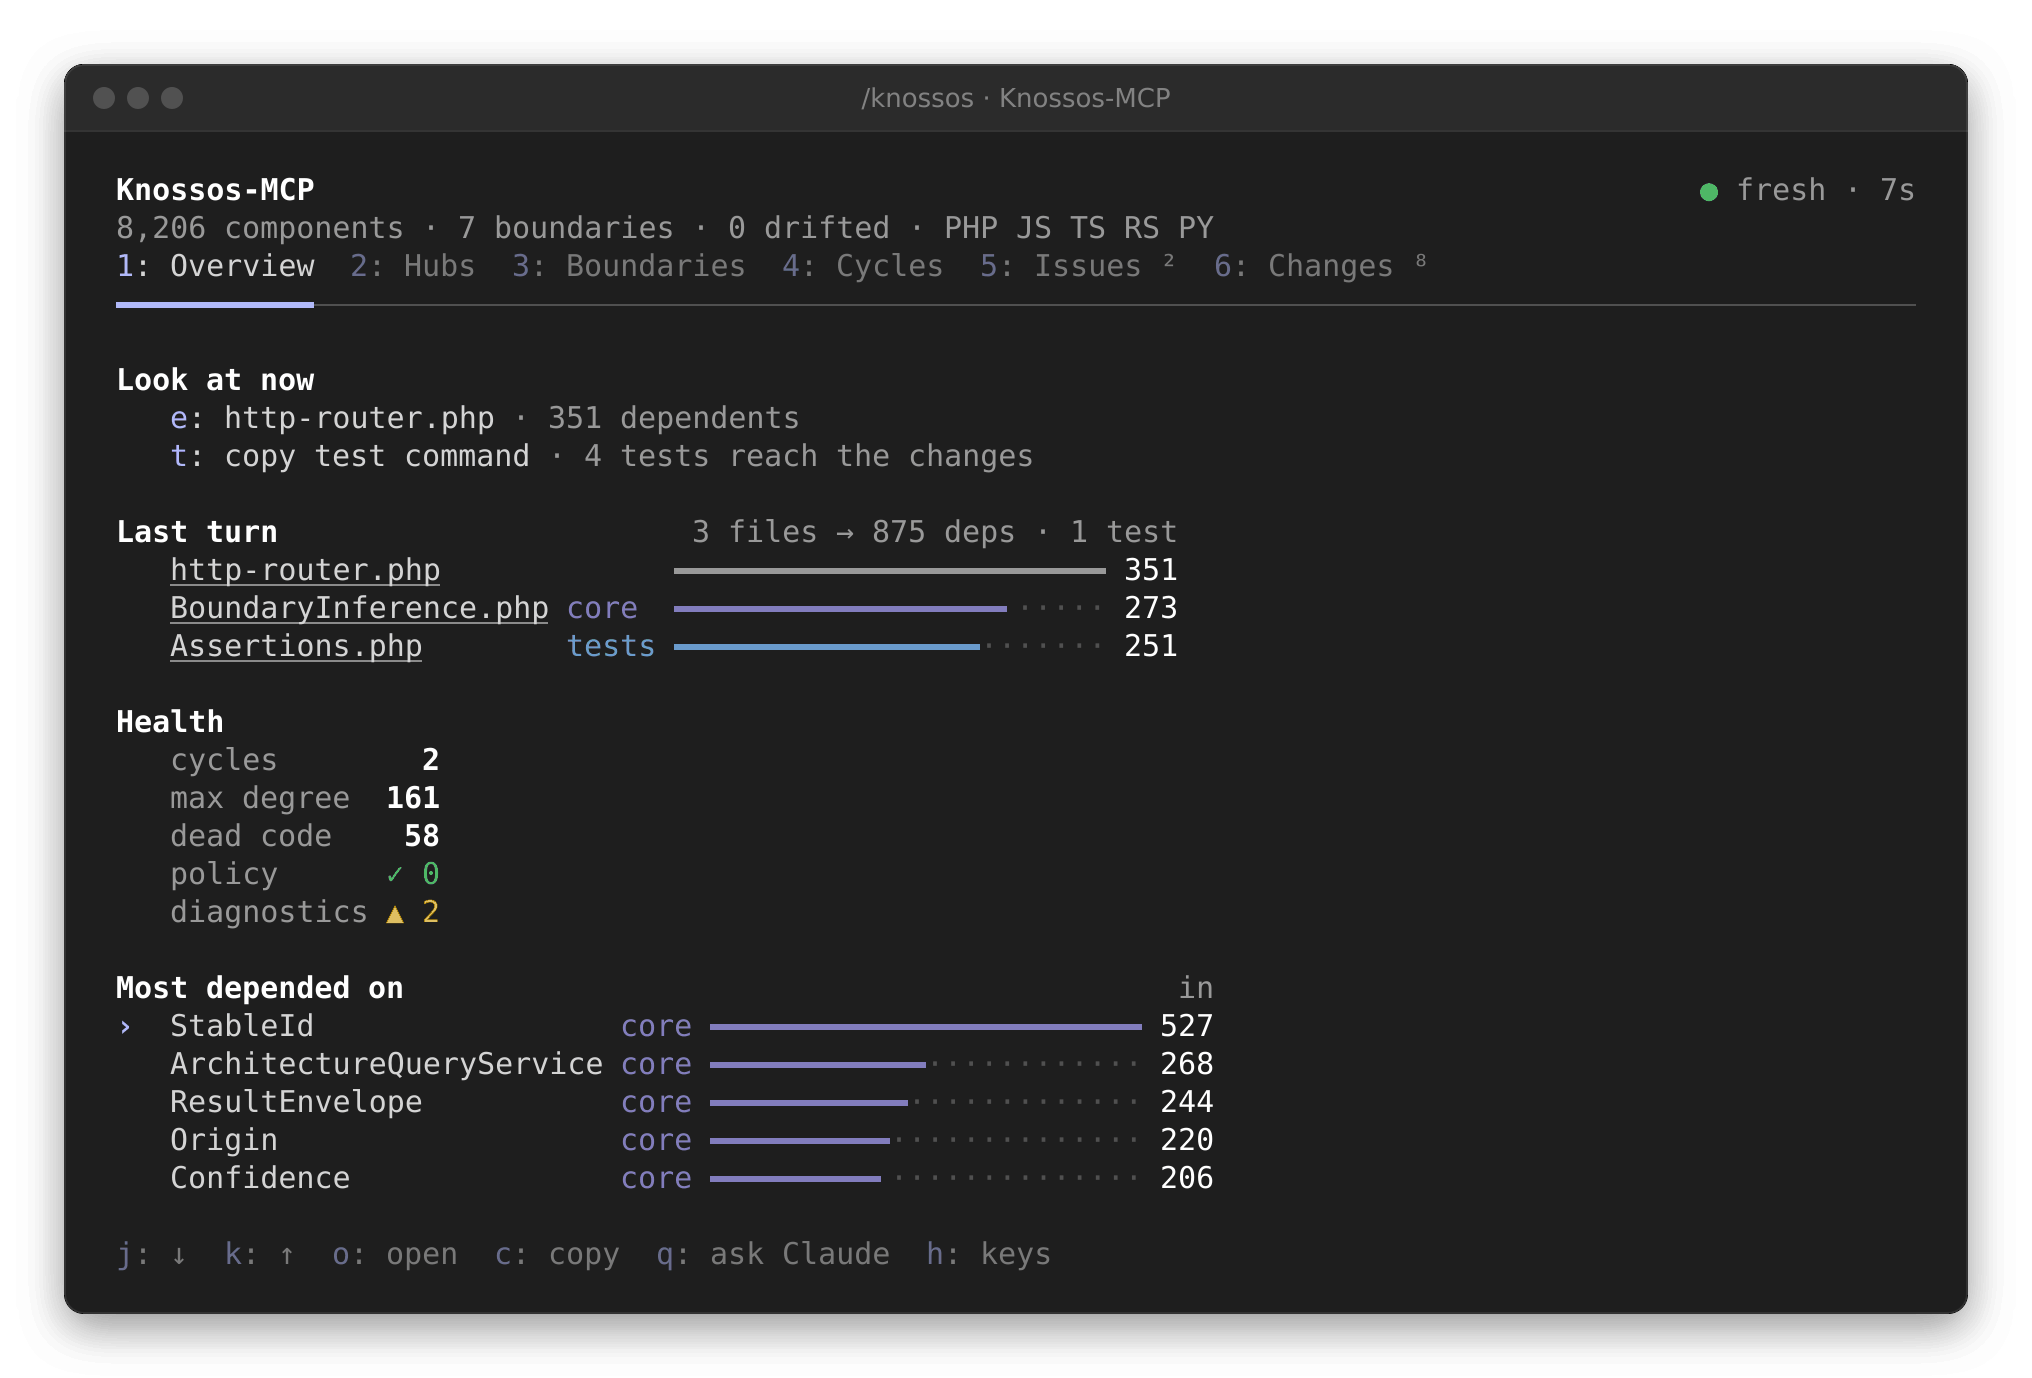
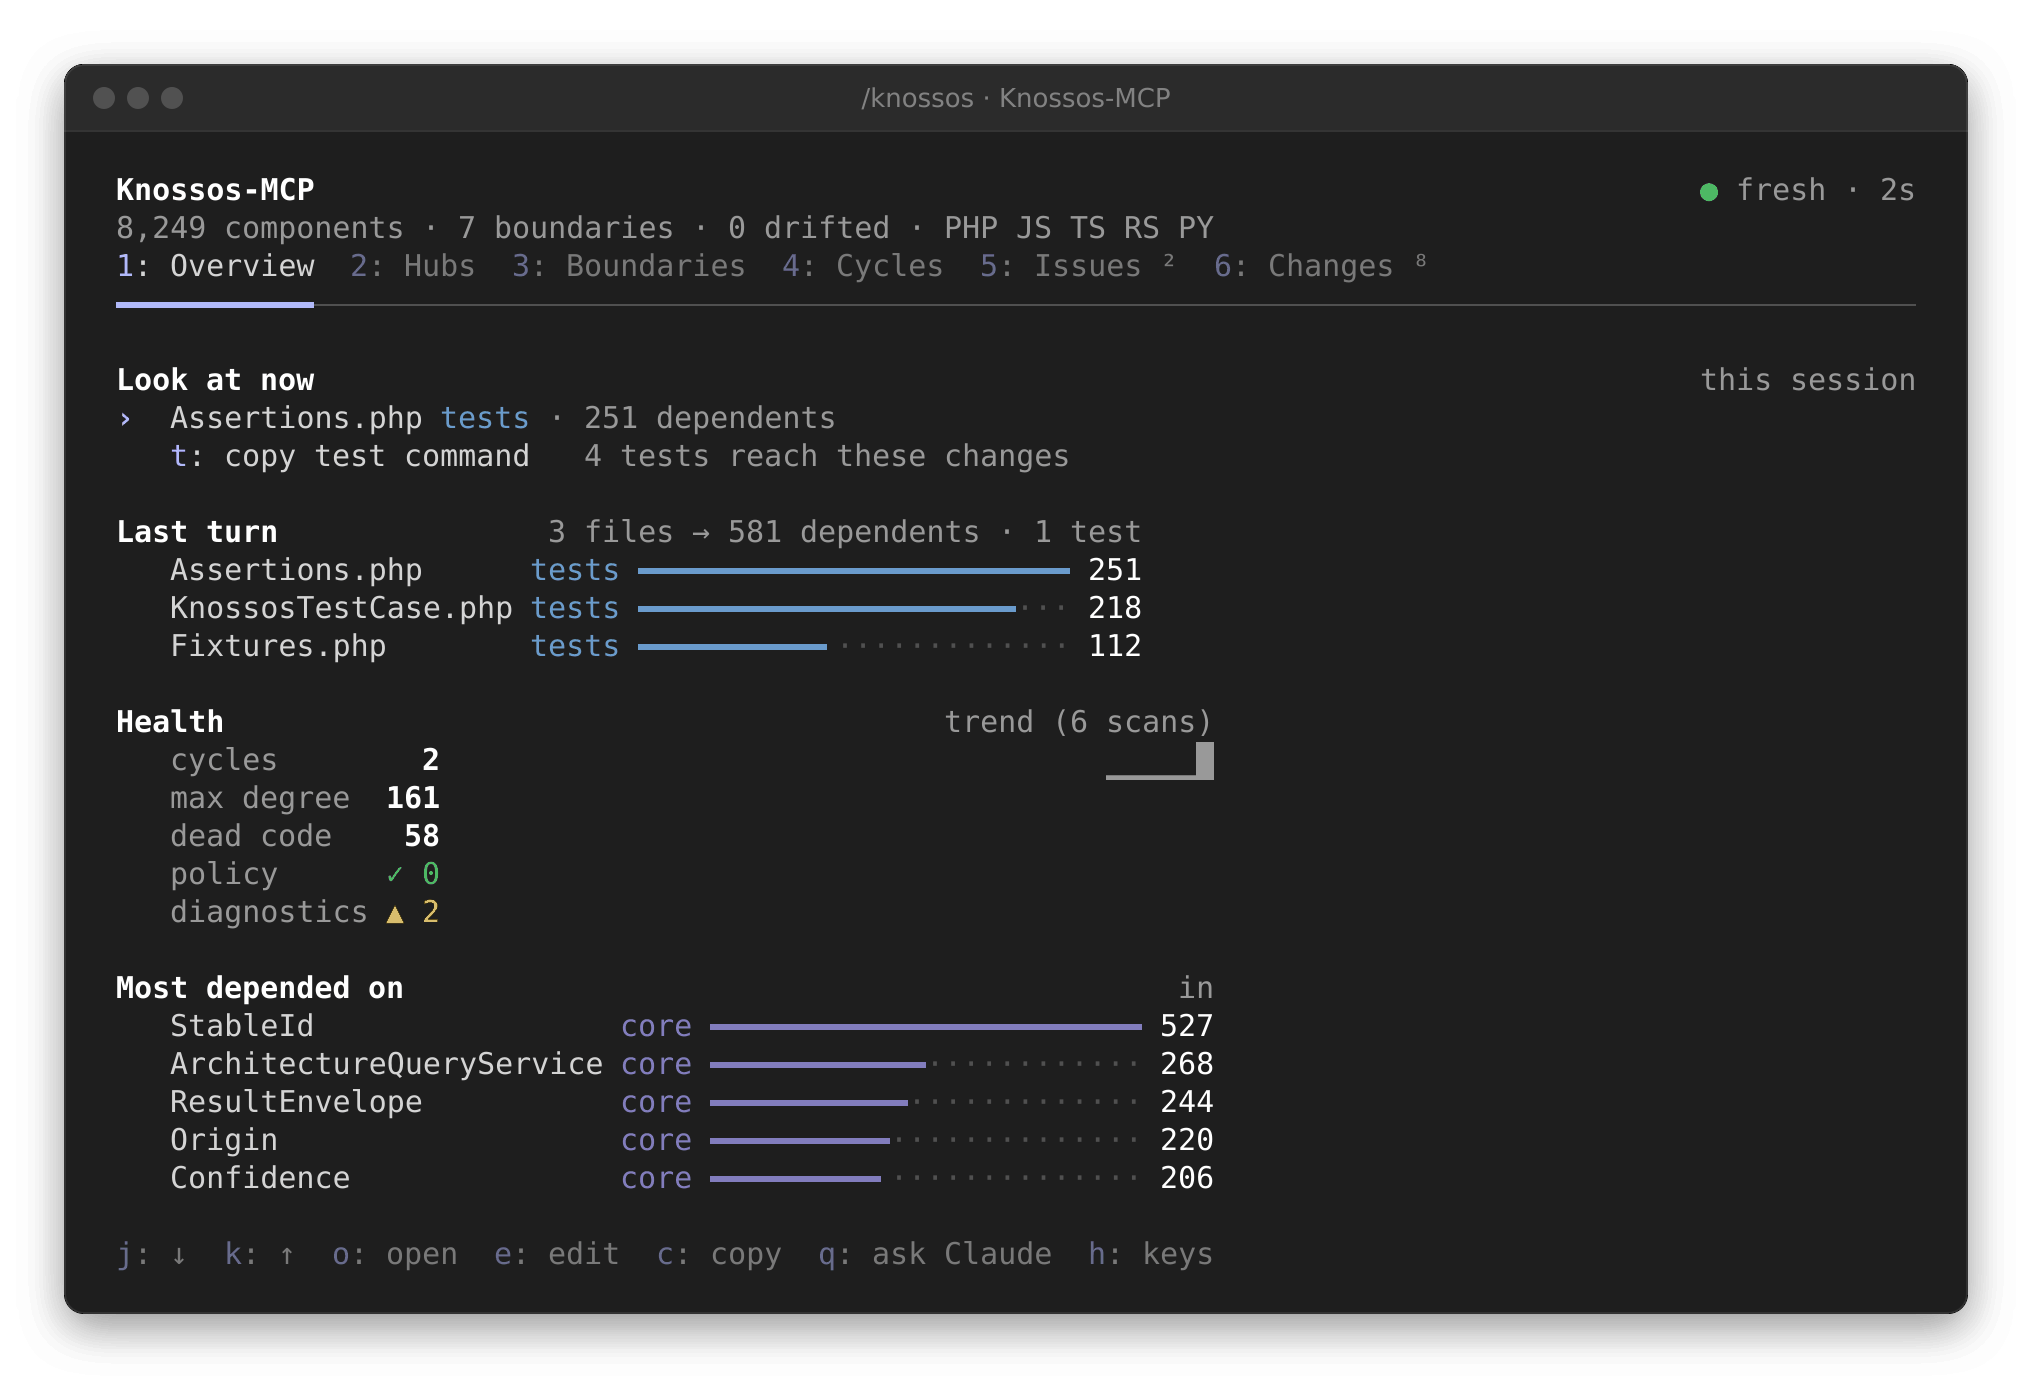
docs(mod): describe file details, the drifted files and the key model, and redraw the README screenshots

diff --git a/docs/capabilities/claude-code-mod.md b/docs/capabilities/claude-code-mod.md
@@ -166,11 +166,11 @@ Knossos-MCP                         ● stale · 11h  r: rescan
 1: Overview  2  3  4  5  6³
 ━━━━━━━━━━━─────────────────────────────────────────────────
 
-Look at now
-   e: TurnBriefService.php core · 21 dependents
-   t: copy test command · 3 tests reach the changes
+Look at now                                     this session
+›  TurnBriefService.php core · 21 dependents
+   t: copy test command   3 tests reach these changes
 
-Last turn                     3 files → 29 deps · 3 tests
+Last turn               3 files → 29 dependents · 3 tests
    TurnBriefService.php core  ━━━━━━━━━━━━━━━━━━━━━━━━ 21
    register.tsx         hooks ━━━━━━━·················  6
    changes.ts           hooks ━━╸·····················  2
@@ -183,21 +183,38 @@ Health
    diagnostics  ✓ 0
 
 Most depended on                                          in
-›  StableId                 core ━━━━━━━━━━━━━━━━━━━━━━━ 525
+   StableId                 core ━━━━━━━━━━━━━━━━━━━━━━━ 525
    ArchitectureQueryService core ━━━━━━━━━━━╸··········· 262
 ```
 
 The line under the project counts its components, its declared boundaries
 (every boundary when none is declared), the files drifted since the snapshot
-and its languages. A narrow pane drops the languages first.
+and its languages. A narrow pane drops the languages first. The drift count is
+a button, and `d` does the same: it lists the drifted files right there,
+under the header, each marked as Changes marks a file (`+` added, `−`
+deleted) with its own boundary, the first twenty by path and how many more.
+While they are listed the marker walks them: `o` opens a file's detail as the
+snapshot holds it, `e` the file itself. `d` again, or a tab, hides them.
+
+```text
+Drifted since the snapshot                                 3
+›  hooks/lib/changes.ts                            hooks
+ + hooks/lib/files.ts
+   src/Query/DashboardService.php                  core
+```
 
 - **Overview:** the project, the snapshot's state and age, "Look at now"
   once this session changed something (the touched file with the most
-  dependents, which `e` opens in your editor, and how many tests reach the
-  session's changes, whose command `t` copies; a warning when none does), the
-  last turn's impact (files, dependents, tests), health (cycles, maximum degree, dead-code
+  dependents, and how many tests reach this session's changes, whose command
+  `t` copies; a warning when none does), the last turn's impact (files,
+  dependents, tests: the last turn's alone, where "Look at now" counts the
+  whole session, and each section says which in its header), health (cycles, maximum degree, dead-code
   candidates, the project's policy violations and its diagnostic errors and
-  warnings) and the five most depended-on components. A trend line appears
+  warnings) and the five most depended-on components. One marker walks the
+  three lists in the order they are drawn, and starts on the file "Look at
+  now" points at: `o` opens the marked file's or component's detail, `e` the
+  marked file in your editor (a hub carries no file, so on one `e` is not
+  offered). A trend line appears
   beside a figure only once there are five snapshots and the figure moved; a
   flat line says nothing.
 - **Hubs:** hubs and hotspots as one list, one row per component, with its
@@ -233,8 +250,10 @@ and its languages. A narrow pane drops the languages first.
   out), `python -m pytest`, `go test` per package or `cargo test`, joined
   with `&&`. The paths are relative to the project root; when the session
   sits elsewhere (below an ancestor project's root), the command starts
-  with `cd <project root> &&`, and so does the one in the model's note. `c` copies it;
-  `o` opens the marked file in your editor. The tab label counts the files.
+  with `cd <project root> &&`, and so does the one in the model's note. `t`
+  copies it, as on Overview; `c` copies the marked file's path, as on every
+  list. `o` opens the marked file's detail and `e` the file in your editor.
+  The tab label counts the files.
   The list lives for the session and keeps at most 500 files and 500 tests
   (`partial` past that).
 - **Boundaries:** a heat map of how much each boundary depends on each
@@ -279,7 +298,7 @@ Changes this session                                 2 turns
    hooks/register.tsx             hooks ━━━━╸··········    6
  + hooks/lib/changes.ts           hooks ━╸·············    2
 
-Tests that reach them · 3                       hops
+Tests that reach these changes · 3              hops
    hooks/lib/changes.spec.ts                       1
    tests/phpunit/Query/TurnBriefServiceTest.php    1
    tests/phpunit/Store/StoreTest.php               2
@@ -291,10 +310,14 @@ Tests that reach them · 3                       hops
 
 Every action is a button, so a click works as well as its key: `1` to `6`
 switch tabs, `j` and `k` move the `›` marker (as does moving the focus with
-Tab or the arrows onto a row), `o` or Enter opens the marked component, `b`
-goes back, `h` lists the keys, one a line. A component opens from the
-Overview, Hubs, Cycles and Issues tabs and from a detail; the pane looks it
-up by its canonical name. Numbers of four digits or more are grouped
+Tab or the arrows onto a row), `o` or Enter opens the marked row, `e` opens
+the marked row's file in your editor, `c` copies and `q` asks about it, `t`
+copies the test command, `d` lists the drifted files, `b` goes back, `h`
+lists the keys, one a line. The keys mean the same on every tab. A component
+opens from the Overview, Hubs, Cycles and Issues tabs and from a detail; the
+pane looks it up by its canonical name. A file opens from Overview ("Look at
+now" and the last turn), Changes, the drifted files and a file's detail. Back
+on the tab, the marker stands where the detail was opened from. Numbers of four digits or more are grouped
 (`10,867`).
 `/knossos inspect <component>` opens the pane on one component directly.
 
@@ -313,24 +336,52 @@ their boundary and how many relationships run to each, side by side from 72
 columns and one above the other below that. A side whose counts are all the
 same draws no bars, since they would compare nothing. The marker walks both
 sides, used by first, and every name there opens in turn.
-Annotations recorded on the component follow. Escape cannot be caught by a
+Annotations recorded on the component follow.
+
+A file's detail answers what depends on it. It heads with the file's name,
+its own boundary, its path (a link), language and size. Below, the files that
+depend on it, the ten most connected with their boundary and how many
+relationships run from each, the boundaries a change here reaches, and how
+many more there are; then the components it declares, the twelve most used
+with how many components in other files use each. A dependent opens as its
+own file detail, a component as a component's detail. The counts leave out
+the stand-ins for symbols declared outside the project (`sprintf`, a vendor
+class), which knossos files under the first file that names them, and the
+module node that stands for the file itself; the fan-in figures in the band,
+the notes and Changes leave out the same stand-ins.
+
+```text
+Assertions.php                                                tests
+tests/phpunit/Support/Assertions.php · PHP · 91 lines
+
+Depended on by 251 files                                      edges
+   reaching tests core
+›  tests/phpunit/Reconciliation/GraphReconcilerTest.php tests ━━━ 206
+   tests/phpunit/Discovery/IgnoreMatcherTest.php        tests ━━╸ 167
+   +241 more
+
+Declares 7 components                     used by
+   assertSame        ━━━━━━━━━━━━━━━━━━━━━━ 2,360
+   captureThrows     ━━╸··················    313
+```
+
+Escape cannot be caught by a
 pane (it hands the keyboard back), so `b` is the way back, and the filter
 clears with `x` or an empty Enter.
 
 Every `file:line` the pane shows is a link: the detail's place, the places on
-the Issues tab, the largest files, the last turn's files and the Changes
-tab's files and tests. It is a Markdown `file:` link (`#L<line>` names the
+the Issues tab, the largest files, a file detail's path and the Changes
+tab's tests. It is a Markdown `file:` link (`#L<line>` names the
 line), so a ctrl- or cmd-click opens it as a link in one of Claude's replies
-would. A plain click, and `e` on the marked row (or the shown component, or
-on Overview the riskiest file), runs `code -g <path>:<line>`, which VS Code
+would. A plain click, and `e` on the marked row (or on what the detail shows), runs `code -g <path>:<line>`, which VS Code
 and its forks answer; where no such command answers, the pane copies
 `path:line` to your clipboard instead and says so in a toast. A terminal
 editor from `$EDITOR` cannot be started this way: it needs a terminal of its
 own.
 
-Two more keys act on the marked component, or on the one the detail shows:
+Two more keys act on the marked row, or on what the detail shows:
 
-- `c` copies its canonical name to the clipboard of the surface you pressed
+- `c` copies its canonical name (a file's path) to the clipboard of the surface you pressed
   it on, and says so in a toast.
 - `q` asks Claude about it. Your press submits the one prompt below (on
   Cycles, how to break the marked cycle; on Boundaries, what the marked
@@ -390,7 +441,7 @@ Those are the only writes to the graph. They happen only for a project that
 is already scanned and inside an allowed root, never inside a hook dispatch,
 and never two at a time within a session. The pane's allow-root action writes
 the roots file, and only after you confirmed it. `knossos dashboard` and
-`knossos component-detail` only read the graph, though like the scans they
+`knossos component-detail` and `knossos file-detail` only read the graph, though like the scans they
 bring a database with an older schema up to date before they read it. One
 small exception: the dashboard writes trend cache rows. It keeps the figures
 it computed for a retained snapshot in the `snapshot_metrics` table
@@ -445,7 +496,7 @@ one log line and turns the band and pane off for the session.
 
 The wrapper bounds each call: 60 seconds for `turn-brief` and the pane's
 rescan, 30 for `dashboard` (a first dashboard of a large project walks the
-whole graph), 15 for `component-detail` and `allow-root`. It runs
+whole graph), 15 for `component-detail`, `file-detail` and `allow-root`. It runs
 `allow-root` only with a roots file the installation (or the environment)
 names, never one it would guess from the working directory.
 

diff --git a/README.md b/README.md
@@ -391,8 +391,9 @@ the files, their dependents, the tests that reach them, and how old the figures 
 ![The band above the Claude Code prompt](docs/images/claude-code-mod/band-prompt-dark.png)
 
 `/knossos` opens the pane. The Overview leads with the file this session touched that most
-of the project depends on, a key away from your editor, and a key that copies the command for
-the tests that reach the changes. It draws in your Claude Code theme's own colours.
+of the project depends on, marked: `o` lists the files that depend on it, `e` opens it in your
+editor, and `t` copies the command for the tests that reach the changes. It draws in your
+Claude Code theme's own colours.
 
 <picture>
   <source media="(prefers-color-scheme: light)" srcset="docs/images/claude-code-mod/overview-light.png">
@@ -400,7 +401,8 @@ the tests that reach the changes. It draws in your Claude Code theme's own colou
 </picture>
 
 The Changes tab adds up every turn of the session: each file with its dependents and its
-boundary, the tests that reach them, nearest first, and the command that runs them.
+boundary, the tests that reach them, nearest first, and the command that runs them. Every file
+there opens to the files that depend on it.
 
 ![The Changes tab](docs/images/claude-code-mod/changes-dark.png)
 
